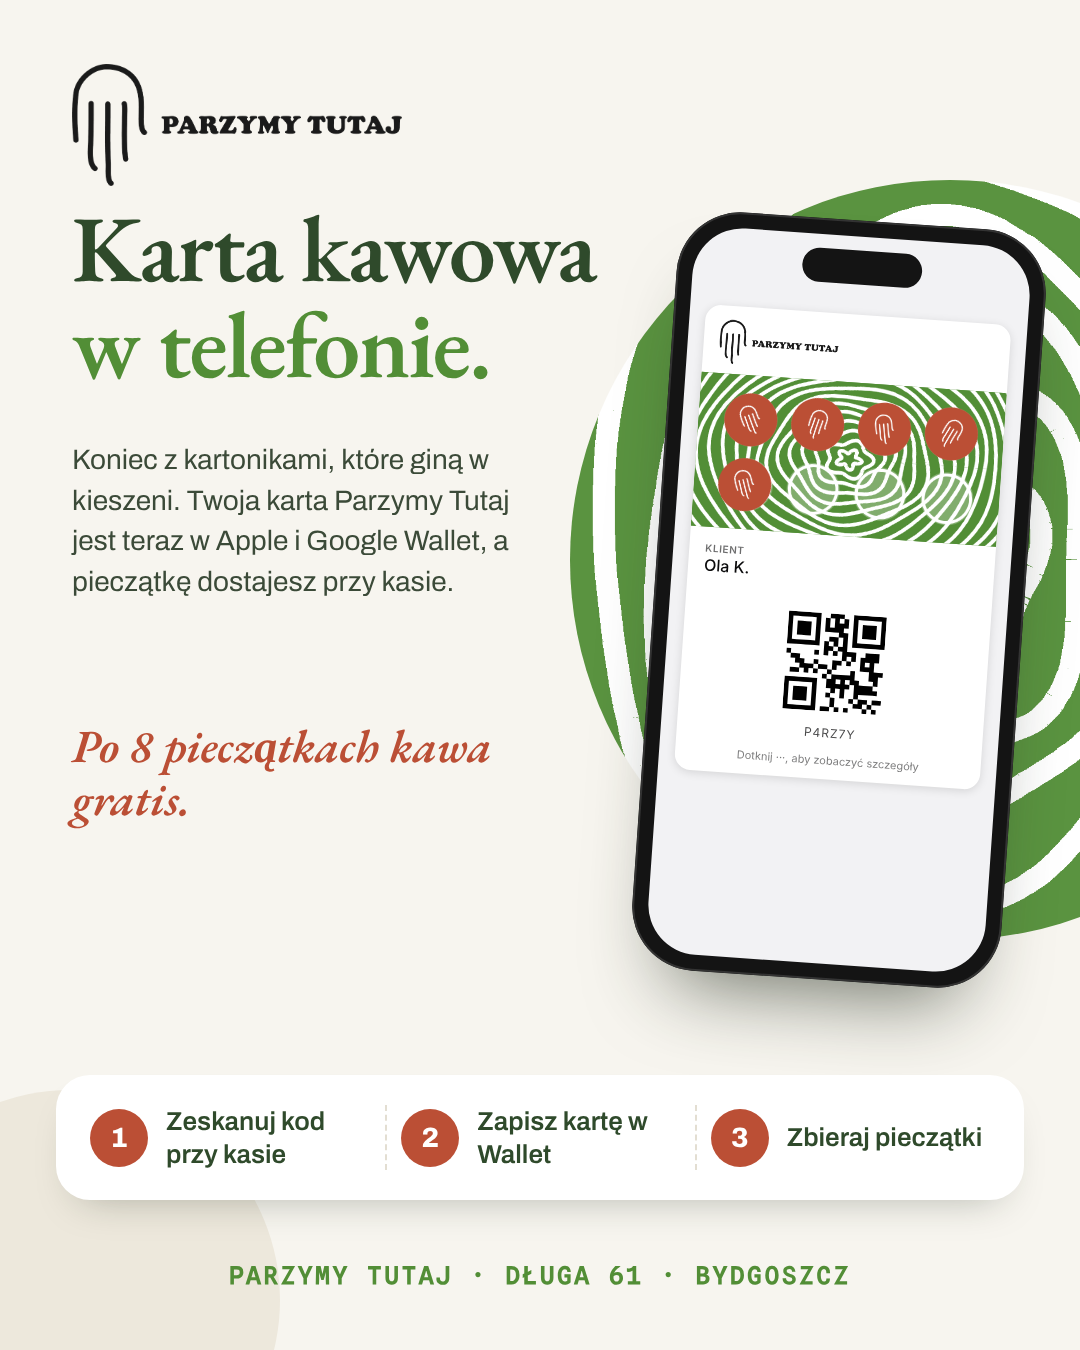
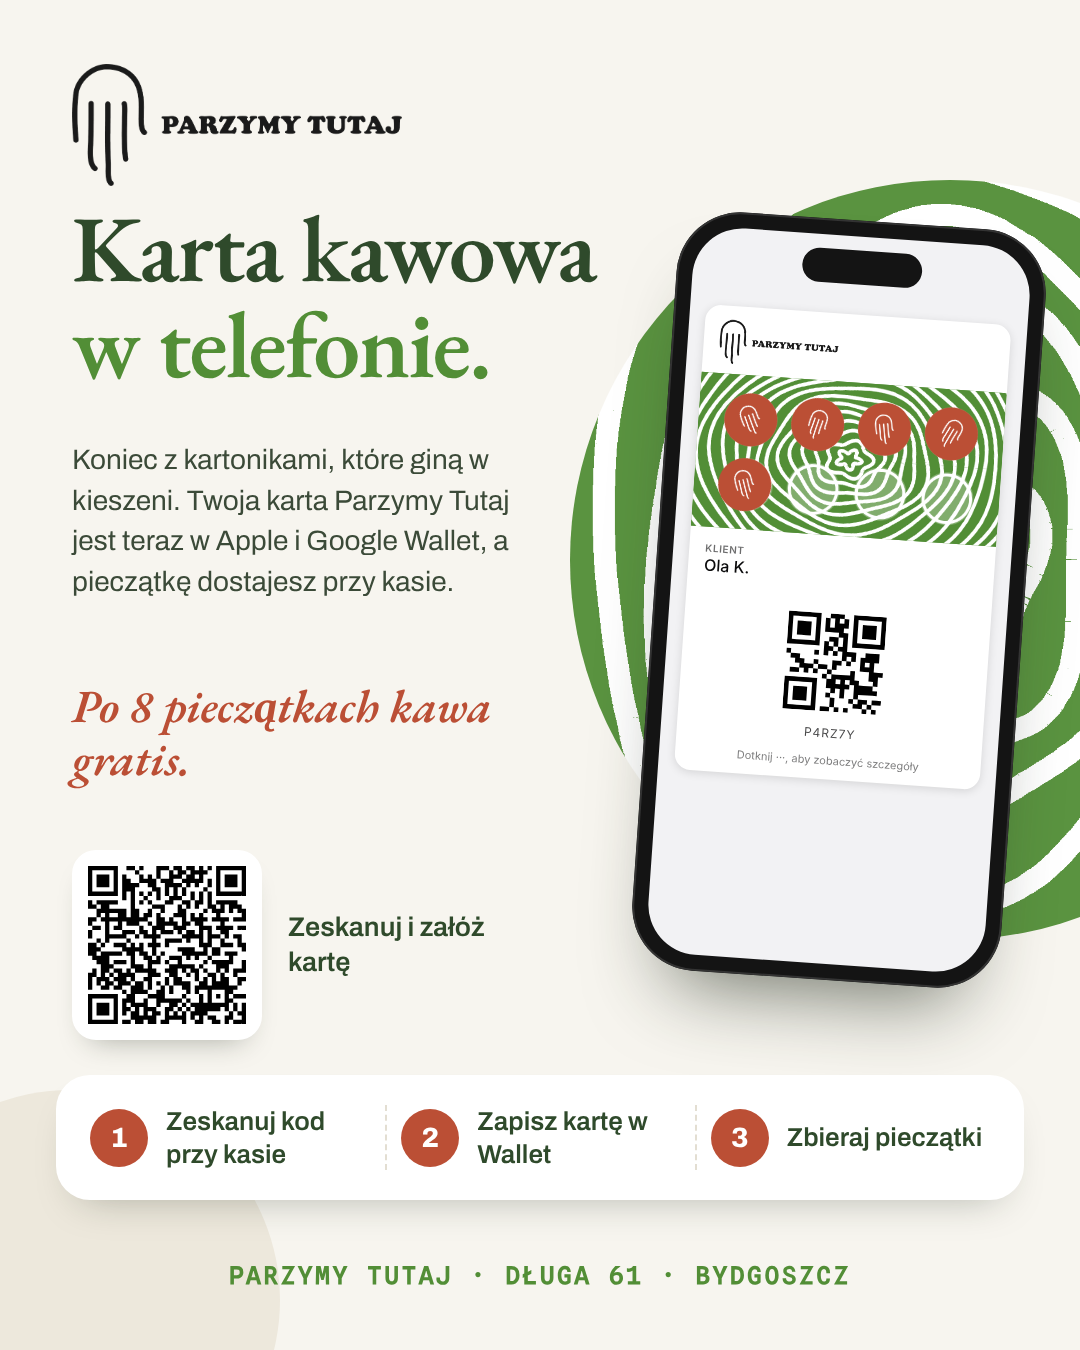
Parzymy Instagram post: QR code to get the card
Claude-Session: https://claude.ai/code/session_01P7jvwC9jL6ipCqqXJiCoo9

Changed region(s): [[0.0611, 0.4978, 0.4583, 0.7778]]

diff --git a/marketing/instagram/parzymy/post-karta.html b/marketing/instagram/parzymy/post-karta.html
@@ -16,7 +16,7 @@ html,body{margin:0;background:var(--cream)}
 h1{position:absolute;left:72px;top:200px;margin:0;font-family:"EB Garamond",Georgia,serif;font-weight:600;font-size:94px;line-height:1.02;letter-spacing:-.02em;width:560px}
 h1 em{font-style:normal;color:var(--green)}
 .lede{position:absolute;left:72px;top:440px;width:470px;margin:0;font-size:28px;line-height:1.45;color:#3B4A38}
-.prize{position:absolute;left:72px;top:720px;width:470px;margin:0;font-family:"EB Garamond",Georgia,serif;font-style:italic;font-weight:600;font-size:46px;line-height:1.15;color:var(--brick)}
+.prize{position:absolute;left:72px;top:680px;width:470px;margin:0;font-family:"EB Garamond",Georgia,serif;font-style:italic;font-weight:600;font-size:46px;line-height:1.15;color:var(--brick)}
 .phone{position:absolute;right:56px;top:220px;width:370px;height:760px;border-radius:64px;background:#141414;padding:16px;box-sizing:border-box;box-shadow:0 50px 80px -40px rgba(30,40,25,.65),inset 0 0 0 2px #333;transform:rotate(4deg)}
 .screen{width:100%;height:100%;border-radius:50px;background:#F2F2F4;overflow:hidden;position:relative;padding:78px 16px 0;box-sizing:border-box}
 .notch{position:absolute;left:50%;top:14px;transform:translateX(-50%);width:120px;height:34px;border-radius:20px;background:#141414}
@@ -25,6 +25,10 @@ h1 em{font-style:normal;color:var(--green)}
 .step{display:flex;align-items:center;gap:18px;padding:0 14px;font-size:26px;line-height:1.25;font-weight:600}
 .step + .step{border-left:2px dashed #E3DED2}
 .step b{flex:0 0 58px;height:58px;border-radius:50%;background:var(--brick);color:#fff;display:grid;place-items:center;font-size:28px}
+.join{position:absolute;left:72px;top:850px;display:flex;align-items:center;gap:26px}
+.join .qr{width:190px;height:190px;background:#fff;border-radius:24px;padding:16px;box-sizing:border-box;box-shadow:0 16px 30px -18px rgba(30,40,25,.4)}
+.join .qr svg{width:100%;height:100%;display:block}
+.join p{margin:0;font-size:27px;line-height:1.3;font-weight:600;width:220px}
 .foot{position:absolute;left:0;right:0;bottom:62px;text-align:center;font:600 24px/1 var(--mono);letter-spacing:.12em;text-transform:uppercase;color:var(--green)}
 </style>
 </head>
@@ -50,6 +54,7 @@ window.WAIT_READY = true;
     <h1>Karta kawowa<br><em>w telefonie.</em></h1>
     <p class="lede">Koniec z kartonikami, które giną w kieszeni. Twoja karta Parzymy Tutaj jest teraz w Apple i Google Wallet, a pieczątkę dostajesz przy kasie.</p>
     <p class="prize">Po 8 pieczątkach kawa gratis.</p>
+    <div class="join"><div class="qr">${UI.qrSvg(UI.publicJoinUrl('parzymy-pokaz') + '&lang=pl')}</div><p>Zeskanuj i załóż kartę</p></div>
     <div class="phone"><div class="screen"><div class="notch"></div>${UI.renderPass(card, who, { platform: 'apple' })}</div></div>
     <div class="steps">
       <div class="step"><b>1</b>Zeskanuj kod przy kasie</div>
